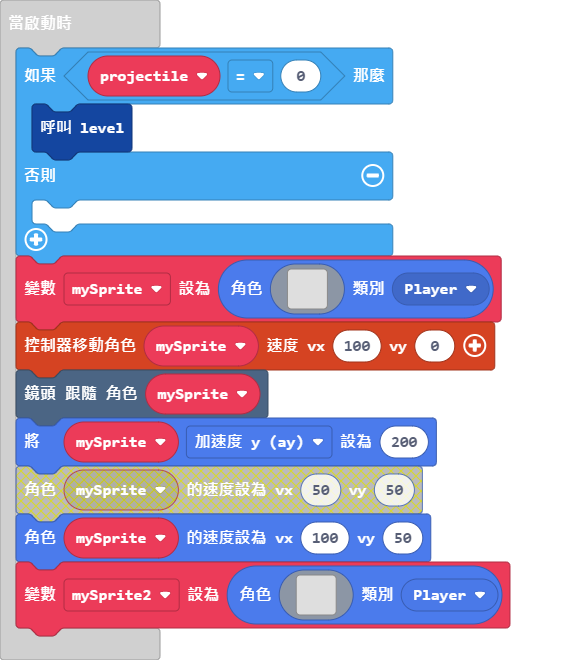
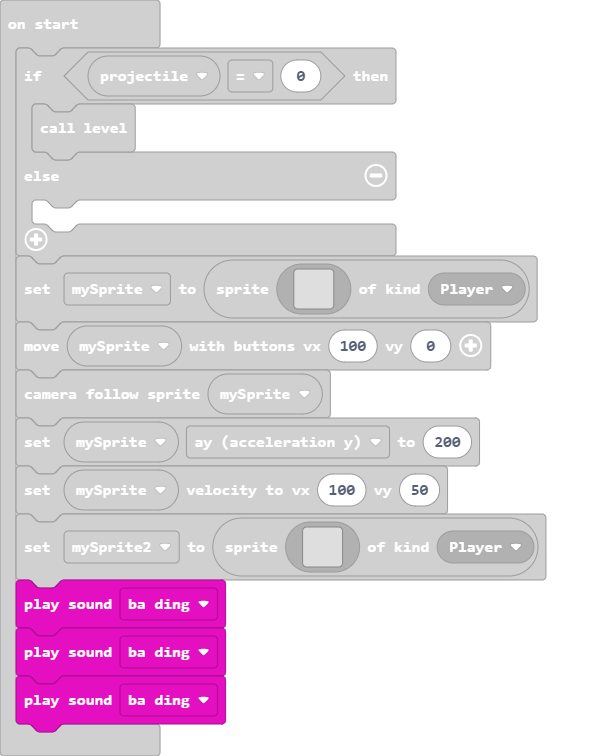
Update main.blocks, main.ts, tilemap.g.ts

diff --git a/tilemap.g.ts b/tilemap.g.ts
@@ -1,4 +1,4 @@
-// 自動生成的代碼。請勿編輯。
+// Auto-generated code. Do not edit.
 namespace myTiles {
     //% fixedInstance jres blockIdentity=images._tile
     export const transparency16 = image.ofBuffer(hex``);
@@ -49,4 +49,4 @@ namespace myTiles {
     })
 
 }
-// 自動生成的代碼。請勿編輯。
+// Auto-generated code. Do not edit.

diff --git a/main.ts b/main.ts
@@ -47,3 +47,6 @@ let mySprite2 = sprites.create(img`
     . . . . . . . . . . . . . . . . 
     . . . . . . . . . . . . . . . . 
     `, SpriteKind.Player)
+music.baDing.play()
+music.baDing.play()
+music.baDing.play()
